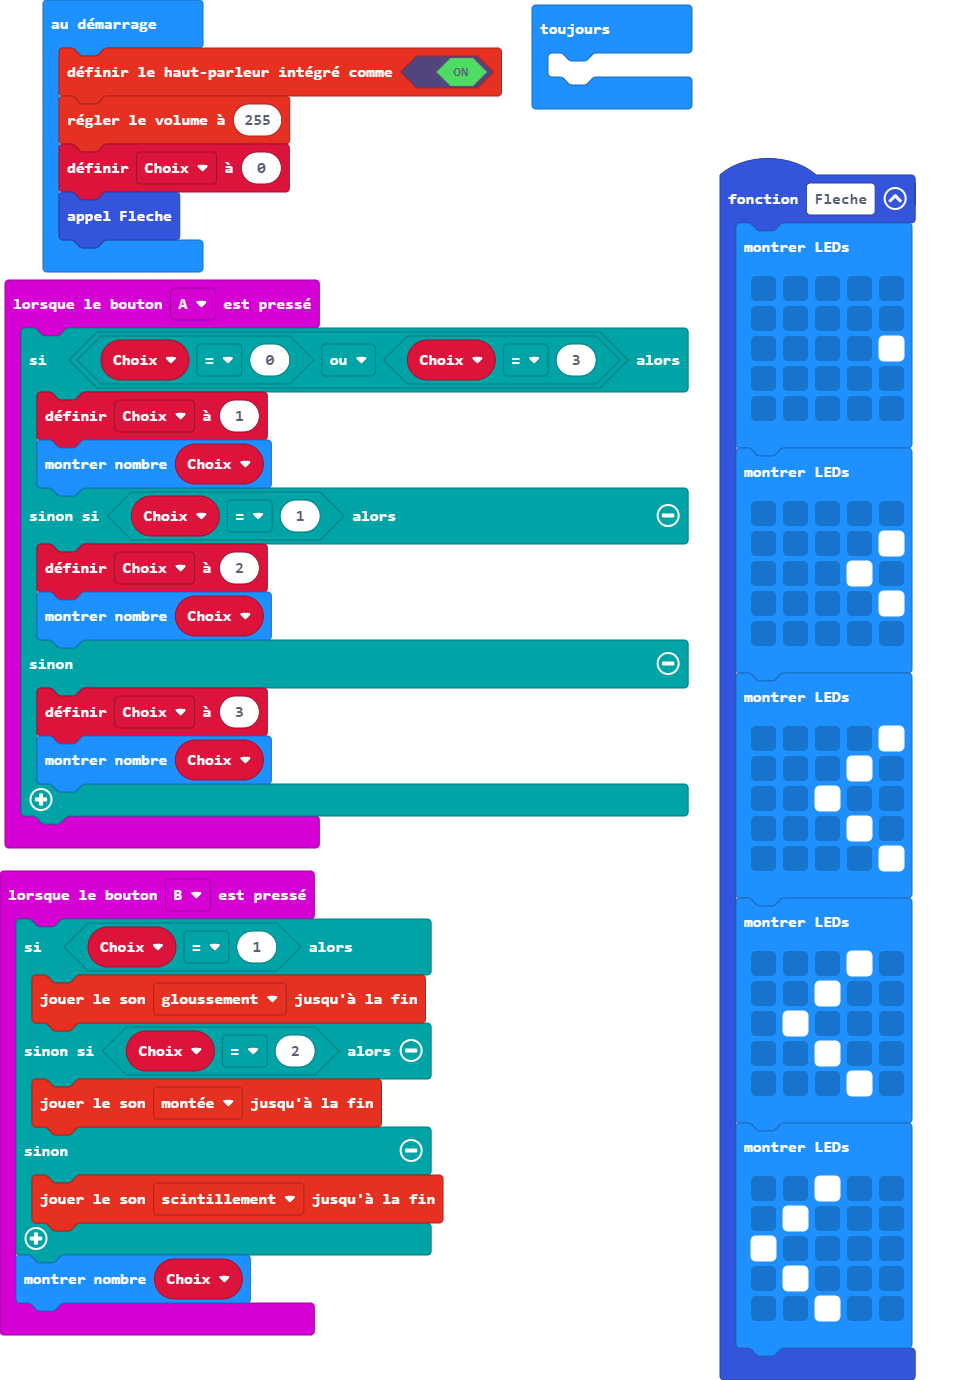
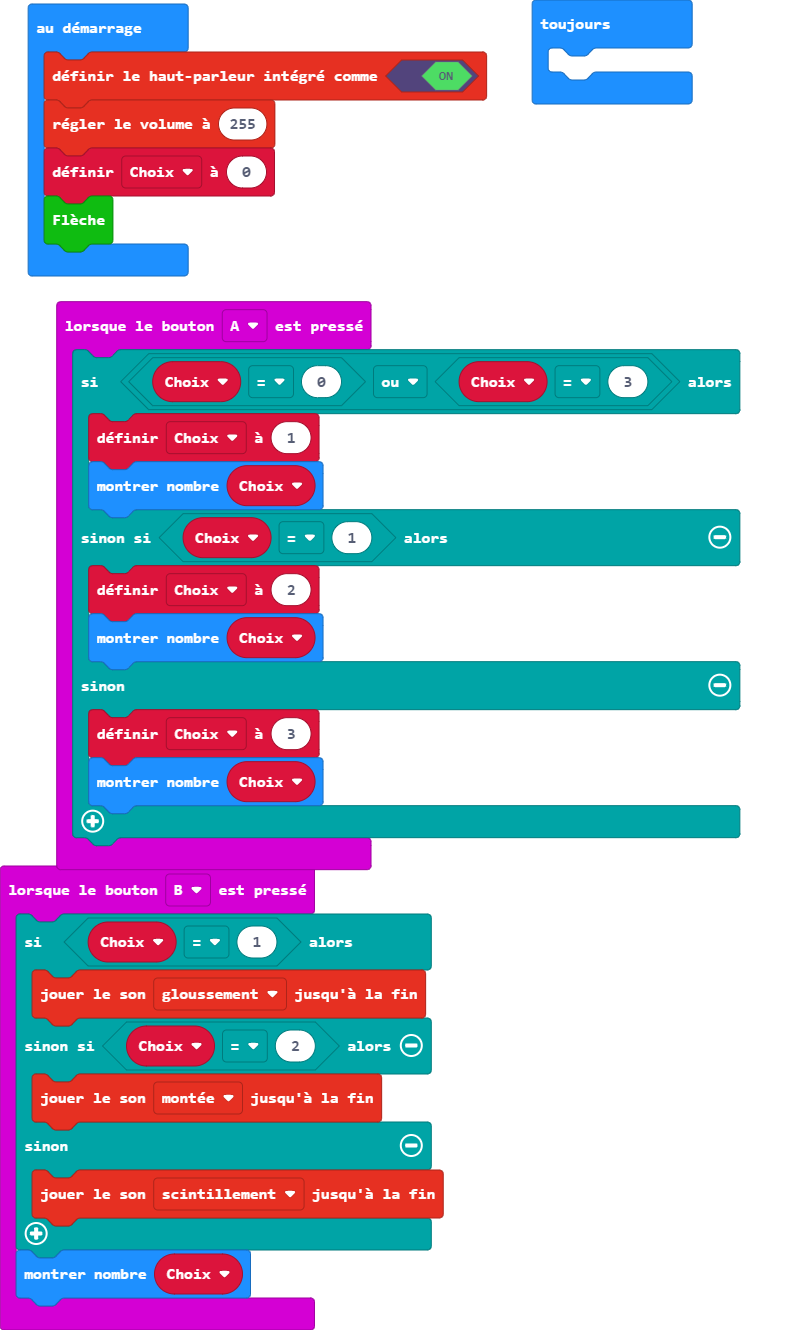
Mise à jour main.blocks, main.ts, custom.ts

diff --git a/custom.ts b/custom.ts
@@ -5,11 +5,44 @@
 //% weight=100 color=#0fbc11 icon=""
 namespace custom {
     /**
-     * TODO: describe your function here
-     * @param value describe value here, eg: 5
+     * TODO: Flèche pointant A
      */
-    //% block="fleur valeur $value"
-    export function fib(value: number): number {
-        return value <= 1 ? value : fib(value -1) + fib(value - 2);
+    //% block="Flèche"
+    export function fib(): void {
+        basic.showLeds(`
+        . . . . .
+        . . . . .
+        . . . . #
+        . . . . .
+        . . . . .
+        `)
+        basic.showLeds(`
+        . . . . .
+        . . . . #
+        . . . # .
+        . . . . #
+        . . . . .
+        `)
+        basic.showLeds(`
+        . . . . #
+        . . . # .
+        . . # . .
+        . . . # .
+        . . . . #
+        `)
+        basic.showLeds(`
+        . . . # .
+        . . # . .
+        . # . . .
+        . . # . .
+        . . . # .
+        `)
+        basic.showLeds(`
+        . . # . .
+        . # . . .
+        # . . . .
+        . # . . .
+        . . # . .
+        `)
     }
 }

diff --git a/main.ts b/main.ts
@@ -20,48 +20,11 @@ input.onButtonPressed(Button.B, function () {
     }
     basic.showNumber(Choix)
 })
-function Fleche () {
-    basic.showLeds(`
-        . . . . .
-        . . . . .
-        . . . . #
-        . . . . .
-        . . . . .
-        `)
-    basic.showLeds(`
-        . . . . .
-        . . . . #
-        . . . # .
-        . . . . #
-        . . . . .
-        `)
-    basic.showLeds(`
-        . . . . #
-        . . . # .
-        . . # . .
-        . . . # .
-        . . . . #
-        `)
-    basic.showLeds(`
-        . . . # .
-        . . # . .
-        . # . . .
-        . . # . .
-        . . . # .
-        `)
-    basic.showLeds(`
-        . . # . .
-        . # . . .
-        # . . . .
-        . # . . .
-        . . # . .
-        `)
-}
 let Choix = 0
 music.setBuiltInSpeakerEnabled(true)
 music.setVolume(255)
 Choix = 0
-Fleche()
+custom.fib()
 basic.forever(function () {
 	
 })
